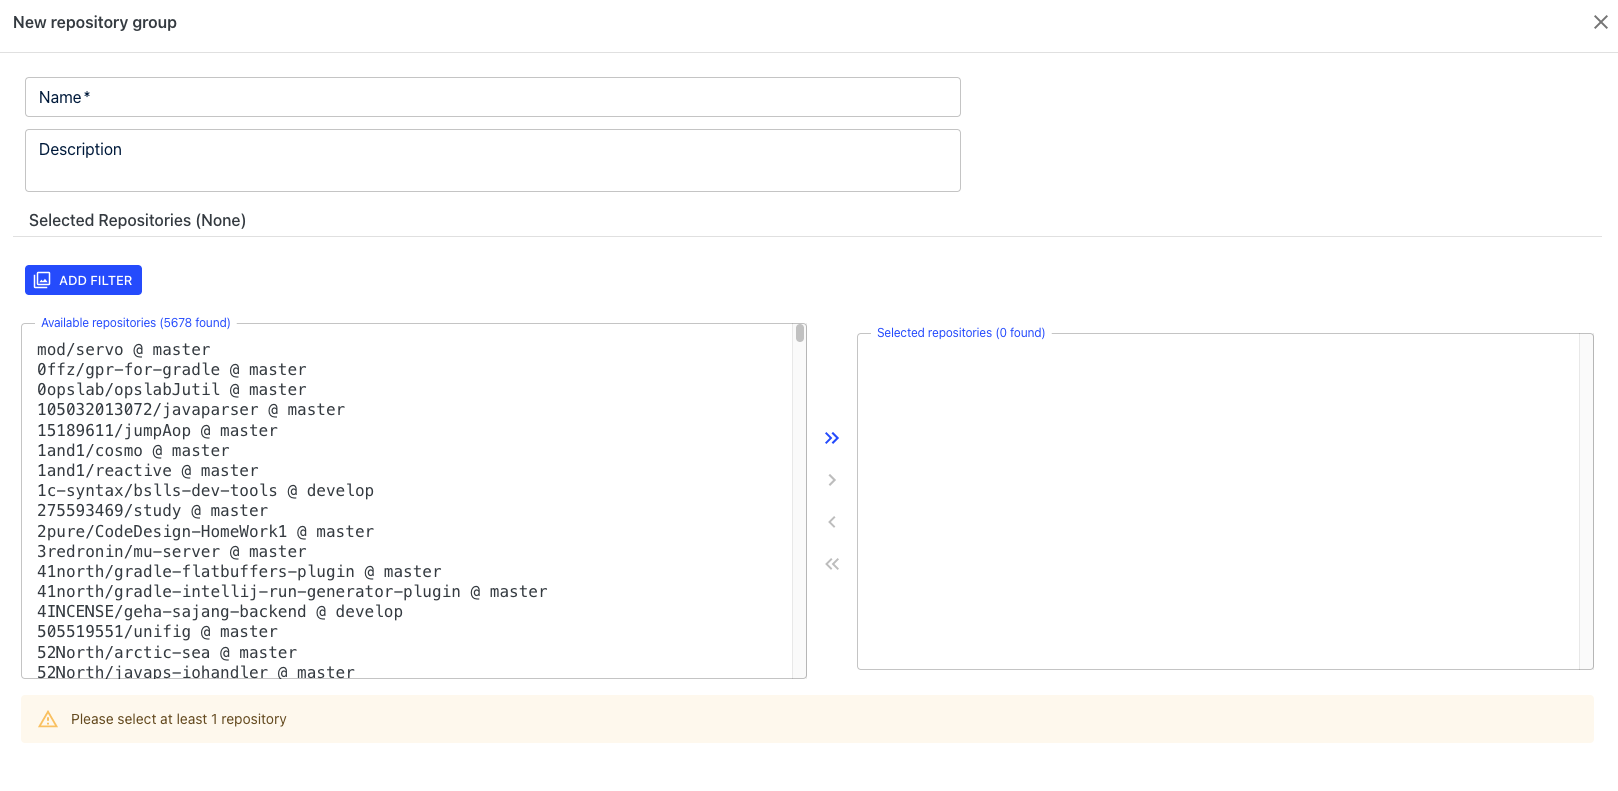
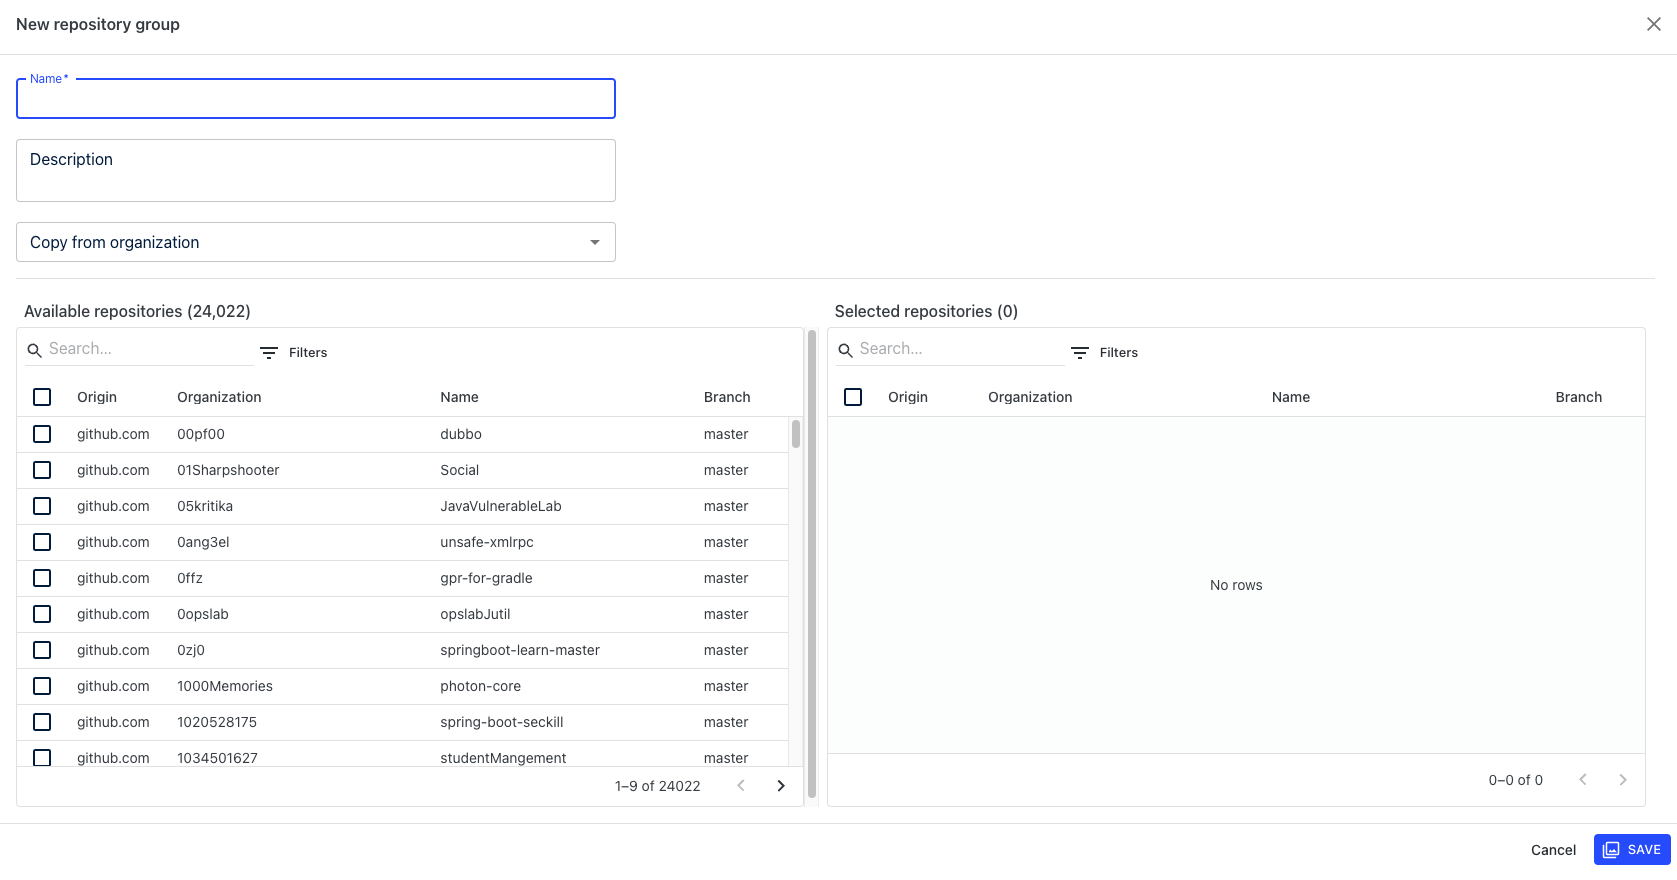
Update repo group to remove filtering

diff --git a/references/managing-repository-groups.md b/references/managing-repository-groups.md
@@ -13,19 +13,20 @@ To help you get started with repository groups, in this guide you will learn:
 1.  In the top right corner of the Moderne home page, you will see some text to the left of your avatar that says `Default`:
 
     ![](../.gitbook/assets/repo-group-1.png)
+
 2.  If you click on that, the organization and repository group menu will appear:
 
     ![](../.gitbook/assets/repo-group-2.png)
+
 3.  Press the `Create` link listed below the organizations. You will be taken to the repository group creation page:
 
     ![](../.gitbook/assets/repo-group-3.png)
+
 4. At the top, you should enter a descriptive name for the group. This will be the identifier you'll see when you go to select which group you want to run a recipe on.
-5.  Once you've entered a name, it's time to select the repositories you want to be included in this group. You can filter which repositories to add to your group by pressing the `Add Filter` button.
 
-    * Please note that you can add more than one filter. If you do, the filters are additive — meaning that if you select both `openrewrite` and `moderne`, you will get all repositories that belong to either one of those organizations:
+5.  Once you've entered a name for the group, it's time to select the repositories you want to be included in this group. You can use the search box to look for repositories that contain your search term anywhere in their origin, organization, name or branch. If you want a more specific filter, you can press the `Filter` button and enter a specific filter for one of the columns. At this time, it's not currently possible to filter on multiple columns.
 
-    ![](../.gitbook/assets/repo-group-5.png)
-6.  When you've finished adding filters, press the `>>` arrows in the middle of the screen to confirm your selection:
+6.  When you've finished adding the filter, press the `>>` arrows in the middle of the screen to confirm your selection:
 
     ![](../.gitbook/assets/repo-group-6.png)
 7.  Next, click on the `Save` button in the bottom right to create the group. You will be redirected to a page that displays all of your repository groups:
